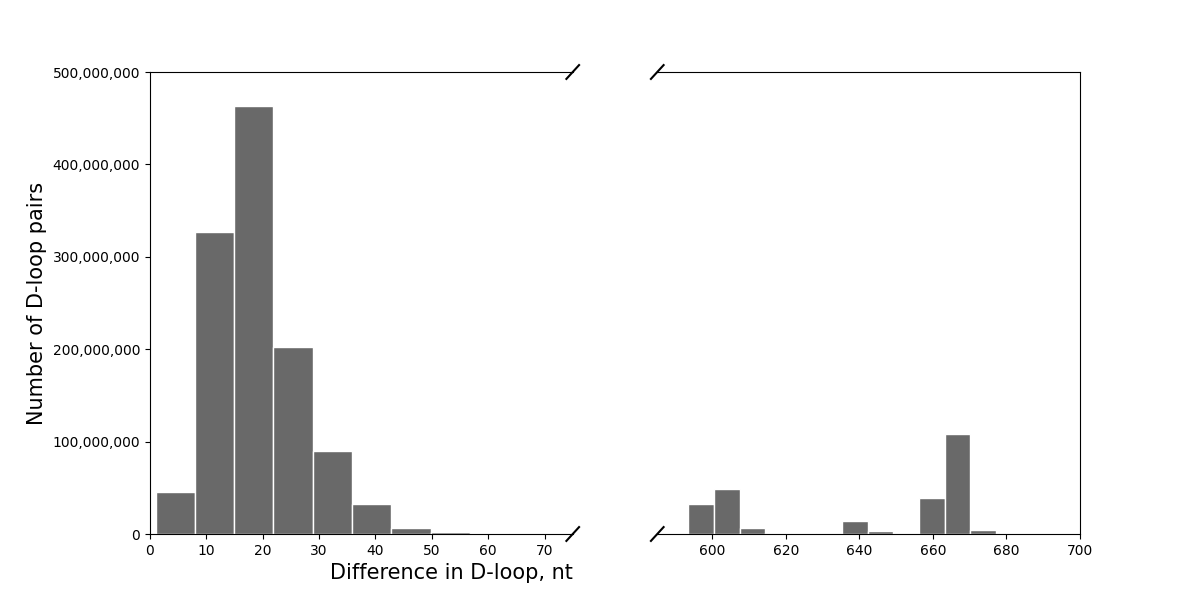
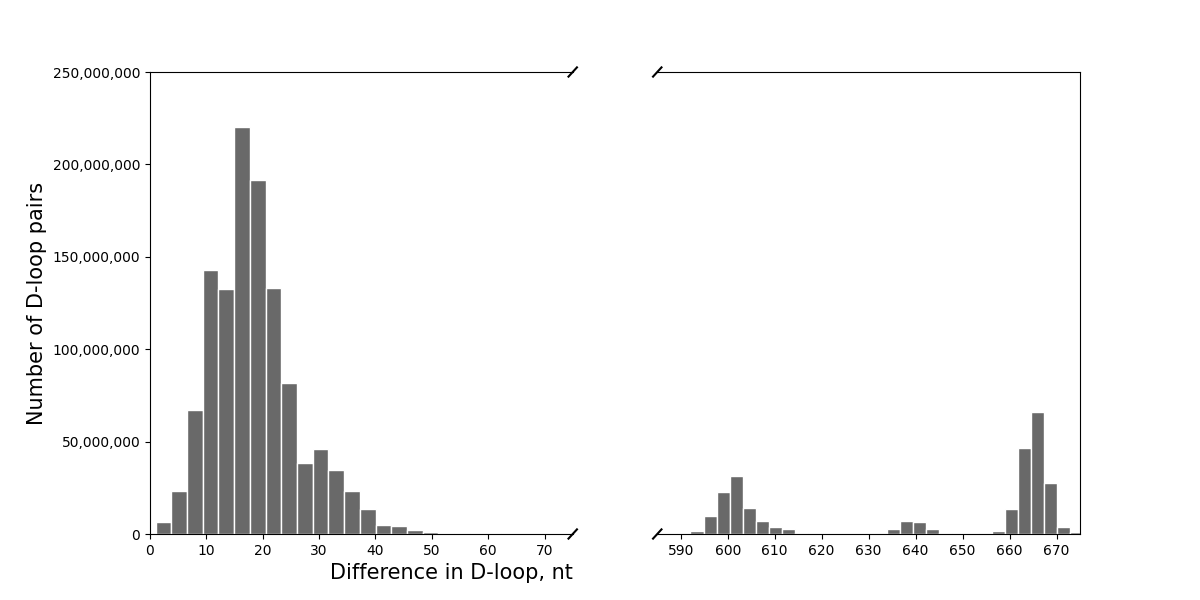
dist plot done

diff --git a/scripts/dloop/dist_distro_plot.py b/scripts/dloop/dist_distro_plot.py
@@ -1,3 +1,7 @@
+"""
+https://support.sisense.com/kb/en/article/creating-charts-with-broken-axes
+"""
+
 import numpy as np
 import matplotlib.pyplot as plt
 
@@ -5,9 +9,10 @@ N = 55180
 
 # dd = np.random.randn(1000000) * 10 + 24
 # dd = np.concatenate([dd, np.random.randn(200000) * 10 + 624])
+# dd = dd[np.where(dd > 0)]
 dd = np.load("./data/dloop_pairwise_dists.npy")
-dd = dd[np.where(dd > 0)]
 print("data loaded")
+print(f"mead: {dd.mean():.2f}, median: {np.median(dd):.2f}")
 
 font = {
     'family': 'Arial',
@@ -32,15 +37,13 @@ def get_yticks_labels(a):
     return l
 
 
-
-
 fig, (ax, ax2) = plt.subplots(1, 2, sharex=False, sharey=False, facecolor='w')
 fig.set_size_inches(12, 6)
 ax.hist(dd, 250, color="dimgrey", edgecolor="white")
 ax2.hist(dd, 250, color="dimgrey", edgecolor="white")
 
-ax.set_xlim(0, 55)
-ax2.set_xlim(585, 685)
+ax.set_xlim(0, 75)
+ax2.set_xlim(585, 675)
 
 ax.spines['right'].set_visible(False)
 ax2.spines['left'].set_visible(False)
@@ -64,4 +67,4 @@ ax.set_yticks(ticks, yt_labels)
 ax.set_xlabel("Difference in D-loop, nt", fontdict=font, loc="right")
 ax.set_ylabel("Number of D-loop pairs", fontdict=font)
 # plt.show()
-plt.savefig("./figures/dloop/dists.png")
+plt.savefig("./figures/dloop/dists.pdf")
